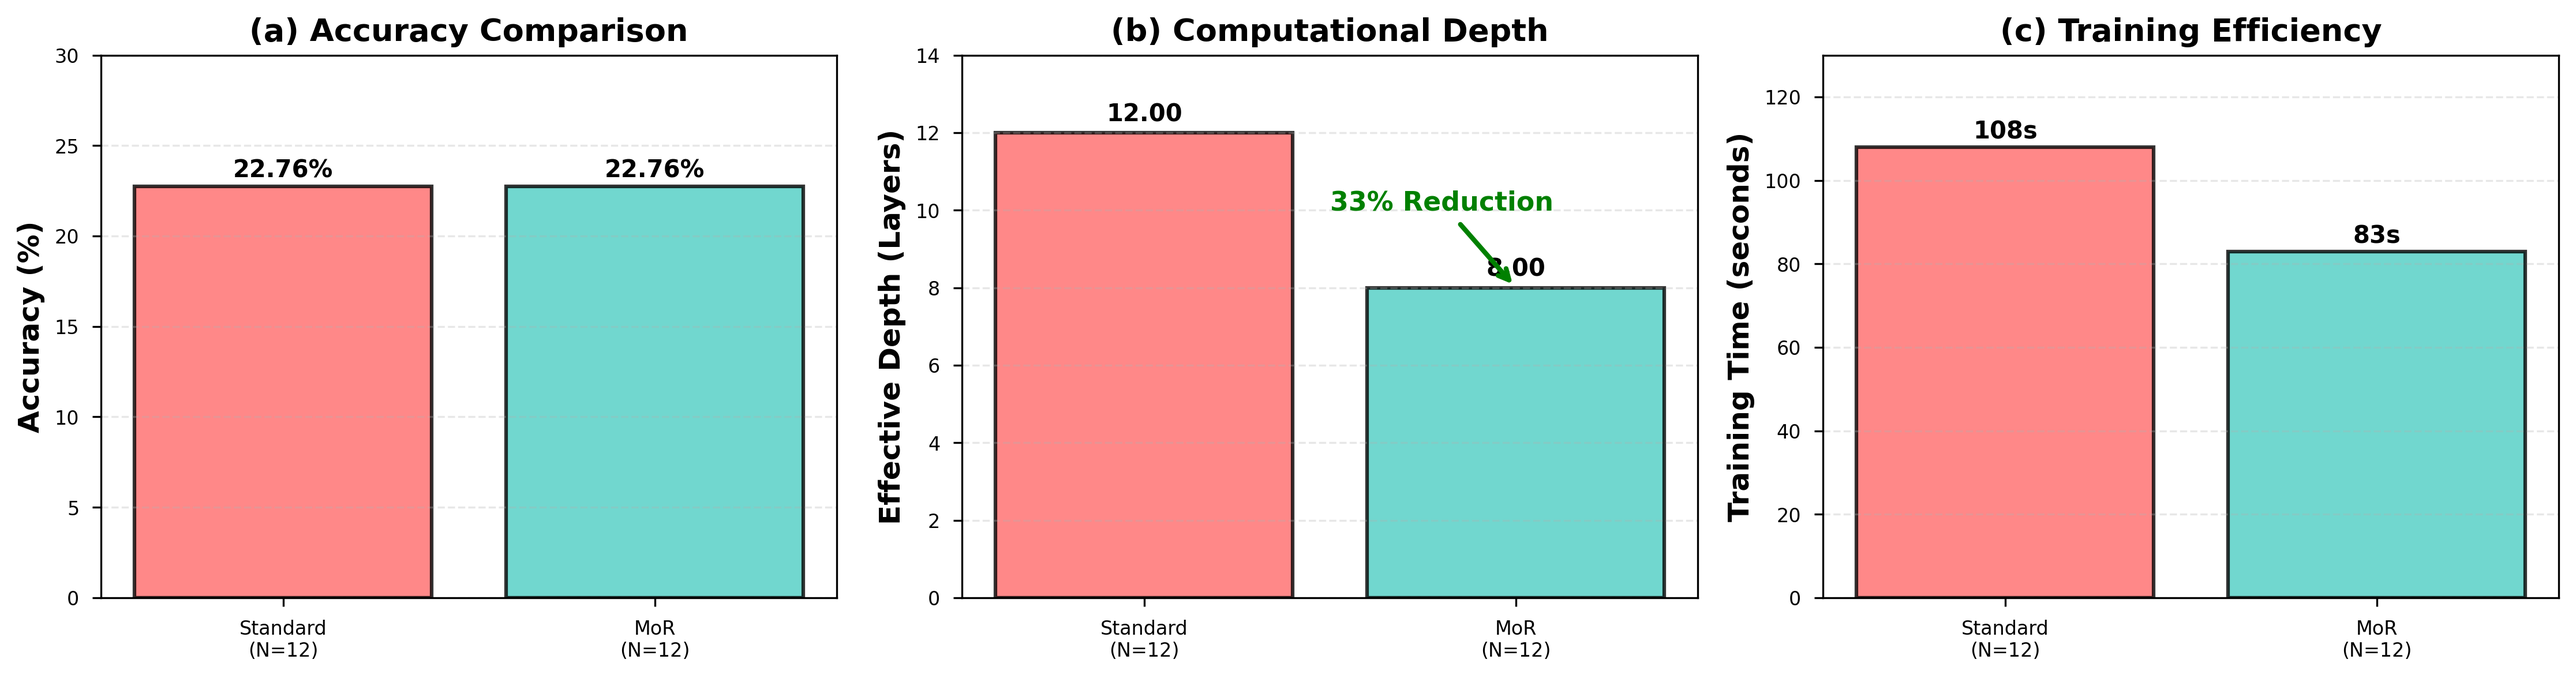
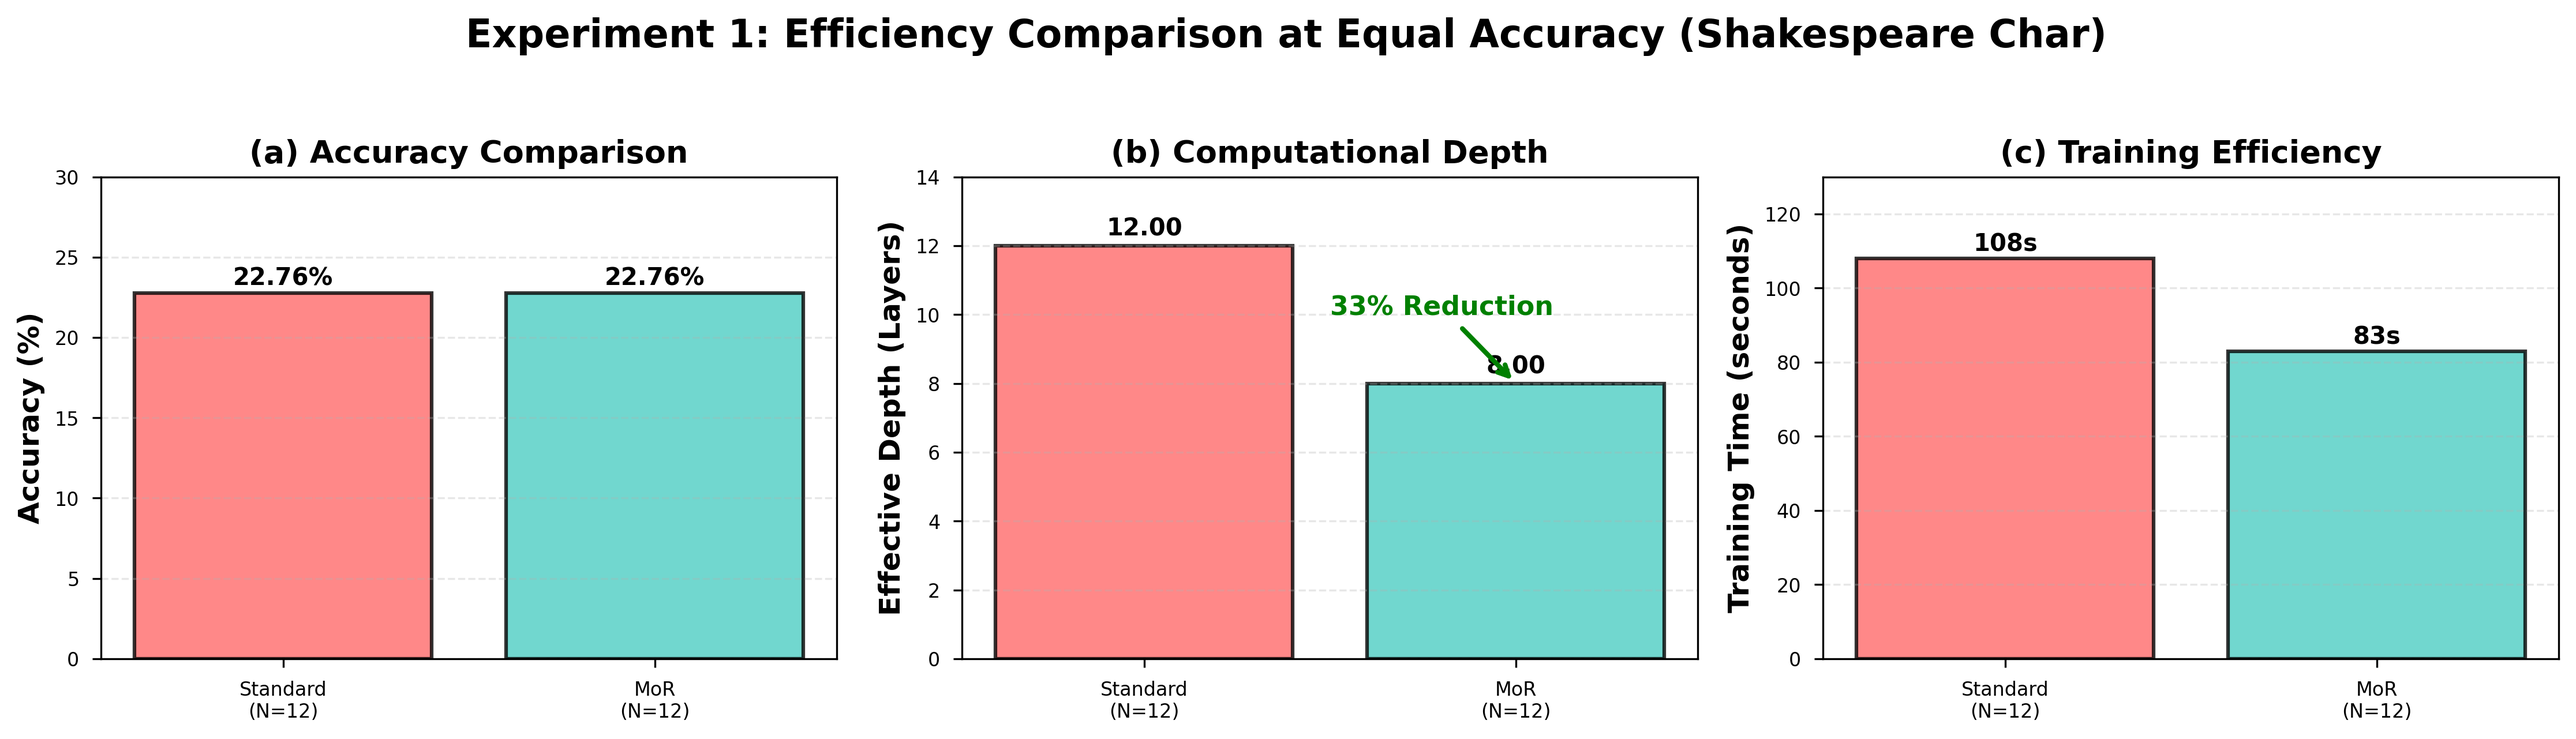
updated figures

diff --git a/Qpain_2026/generate_figures.py b/Qpain_2026/generate_figures.py
@@ -52,6 +52,9 @@ axes[2].set_ylim([0, 130])
 axes[2].grid(axis='y', alpha=0.3, linestyle='--')
 for i, v in enumerate(time):
     axes[2].text(i, v + 2, f'{v}s', ha='center', fontweight='bold')
+# Add dataset label
+fig.suptitle('Experiment 1: Efficiency Comparison at Equal Accuracy (Shakespeare Char)', 
+             fontsize=16, fontweight='bold', y=1.05)
 
 plt.tight_layout()
 plt.savefig(figures_dir / 'exp1_efficiency_comparison.png', dpi=300, bbox_inches='tight')
@@ -98,6 +101,9 @@ axes[2].set_ylim([0, 70])
 axes[2].grid(axis='y', alpha=0.3, linestyle='--')
 for i, v in enumerate(time2):
     axes[2].text(i, v + 1.5, f'{v}s', ha='center', fontweight='bold')
+# Add dataset label
+fig.suptitle('Experiment 2: Equal Cost Comparison (Shakespeare Char)', 
+             fontsize=16, fontweight='bold', y=1.05)
 
 plt.tight_layout()
 plt.savefig(figures_dir / 'exp2_equal_cost_comparison.png', dpi=300, bbox_inches='tight')
@@ -115,7 +121,7 @@ width = 0.25
 # Data for each experiment type
 baseline_n12 = [22.76, 75.46, 3.69]
 mor_n12 = [22.76, 50.15, 30.06]
-baseline_n6 = [15.27, 63.74, 31.89]
+baseline_n6 = [14.90, 63.74, 31.89]
 
 bars1 = ax.bar(x - width, baseline_n12, width, label='Baseline (N=12)', 
                color='#FF6B6B', alpha=0.8, edgecolor='black', linewidth=1.5)
@@ -156,8 +162,10 @@ data_points = [
     (6.00, 14.90, 'Baseline N=6\n(Shakespeare)', '#FF6B6B', '^'),
     (5.89, 49.67, 'MoR N=12 E≈6\n(Shakespeare)', '#4ECDC4', 'D'),
     (12.00, 3.69, 'Baseline N=12\n(WikiText)', '#FF6B6B', 'o'),
+    (6.00, 31.89, 'Baseline N=6\n(WikiText)', '#FF6B6B', '^'),
     (8.13, 30.06, 'MoR N=12\n(WikiText)', '#4ECDC4', 's'),
-    (12.00, 75.46, 'Baseline N=12\n(Bangla)', '#FF6B6B', 'v'),
+    (12.00, 75.46, 'Baseline N=12\n(Bangla)', '#FF6B6B', 'o'),
+    (6.00, 63.74, 'Baseline N=6\n(Bangla)', '#FF6B6B', '^'),
     (8.30, 50.15, 'MoR Exp 1\n(Bangla)', '#4ECDC4', 'X'),
     (7.42, 47.97, 'MoR Exp 2\n(Bangla)', '#4ECDC4', 'D'),
 ]
@@ -179,43 +187,51 @@ plt.savefig(figures_dir / 'depth_accuracy_tradeoff.png', dpi=300, bbox_inches='t
 plt.close()
 
 # ============================================================================
-# Figure 5: Stability Analysis (WikiText-2)
+# Figure 5: Stability Analysis (Bangla & WikiText-2)
 # ============================================================================
-fig, ax = plt.subplots(figsize=(10, 6))
+fig, axes = plt.subplots(1, 2, figsize=(15, 6))
 
-models_stability = ['Baseline\nN=6', 'Baseline\nN=12', 'MoR\nN=12']
-accuracy_stability = [31.89, 3.69, 30.06]
-colors_stability = ['#95E1D3', '#FF6B6B', '#4ECDC4']
-patterns = ['', '///', '']
+# (a) Bangla Subword
+models_bangla = ['Baseline\nN=6', 'Baseline\nN=12\n(Old)', 'MoR\nN=12']
+acc_bangla = [63.74, 3.09, 50.15]
+colors_bangla = ['#95E1D3', '#FF6B6B', '#4ECDC4']
 
-bars = ax.bar(models_stability, accuracy_stability, color=colors_stability, 
-              alpha=0.8, edgecolor='black', linewidth=2)
+bars_bangla = axes[0].bar(models_bangla, acc_bangla, color=colors_bangla, alpha=0.8, edgecolor='black', linewidth=2)
+bars_bangla[1].set_hatch('xxx')
+axes[0].set_ylabel('Validation Accuracy (%)', fontsize=12, fontweight='bold')
+axes[0].set_title('(a) Bangla (Complex Morphology)', fontsize=13, fontweight='bold')
+axes[0].set_ylim([0, 80])
+axes[0].grid(axis='y', alpha=0.3, linestyle='--')
 
-# Add hatching to failed model
-bars[1].set_hatch('///')
-
-ax.set_ylabel('Test Accuracy (%)', fontsize=13, fontweight='bold')
-ax.set_title('Training Stability on WikiText-2 (High-Density Subword)', 
-             fontsize=14, fontweight='bold')
-ax.set_ylim([0, 40])
-ax.grid(axis='y', alpha=0.3, linestyle='--')
-
-# Add value labels
-for i, (bar, v) in enumerate(zip(bars, accuracy_stability)):
+for i, v in enumerate(acc_bangla):
     label = f'{v:.2f}%'
-    if i == 1:
-        label += '\n(Diverged)'
-        ax.text(i, v + 1, label, ha='center', fontweight='bold', 
-               color='red', fontsize=11)
-    else:
-        ax.text(i, v + 1, label, ha='center', fontweight='bold', fontsize=11)
+    if i == 1: label += '\n(Failed)'
+    axes[0].text(i, v + 2, label, ha='center', fontweight='bold', fontsize=10, color='red' if i==1 else 'black')
 
-# Add annotation for stability recovery
-ax.annotate('MoR Recovers\nStability', xy=(2, 30), xytext=(1.5, 35),
-            arrowprops=dict(arrowstyle='->', lw=2.5, color='green'),
-            fontsize=12, fontweight='bold', color='green',
-            bbox=dict(boxstyle='round,pad=0.5', facecolor='lightgreen', alpha=0.3))
+# (b) WikiText-2 Subword
+models_wiki = ['Baseline\nN=6', 'Baseline\nN=12', 'MoR\nN=12']
+acc_wiki = [31.89, 3.69, 30.06]
+colors_wiki = ['#95E1D3', '#FF6B6B', '#4ECDC4']
 
+bars_wiki = axes[1].bar(models_wiki, acc_wiki, color=colors_wiki, alpha=0.8, edgecolor='black', linewidth=2)
+bars_wiki[1].set_hatch('///')
+axes[1].set_ylabel('Test Accuracy (%)', fontsize=12, fontweight='bold')
+axes[1].set_title('(b) WikiText-2 (High Information Density)', fontsize=13, fontweight='bold')
+axes[1].set_ylim([0, 40])
+axes[1].grid(axis='y', alpha=0.3, linestyle='--')
+
+for i, v in enumerate(acc_wiki):
+    label = f'{v:.2f}%'
+    if i == 1: label += '\n(Diverged)'
+    axes[1].text(i, v + 1, label, ha='center', fontweight='bold', fontsize=10, color='red' if i==1 else 'black')
+
+# Add recovery arrows
+axes[0].annotate('MoR Solves\nConvergence', xy=(2, 50.15), xytext=(1.2, 65),
+            arrowprops=dict(arrowstyle='->', lw=2, color='green'), fontweight='bold', color='green')
+axes[1].annotate('MoR Restores\nStability', xy=(2, 30.06), xytext=(1.2, 35),
+            arrowprops=dict(arrowstyle='->', lw=2, color='green'), fontweight='bold', color='green')
+
+fig.suptitle('Architectural Stability Across High-Density Datasets', fontsize=16, fontweight='bold', y=1.02)
 plt.tight_layout()
 plt.savefig(figures_dir / 'stability_analysis.png', dpi=300, bbox_inches='tight')
 plt.close()
@@ -226,7 +242,7 @@ plt.close()
 fig, ax = plt.subplots(figsize=(10, 6))
 
 experiments = ['Exp 1\n(Shakespeare)', 'Exp 3\n(Bangla)', 'Exp 4\n(WikiText)']
-depth_reduction = [33.3, 32.1, 32.3]  # Percentage reduction
+depth_reduction = [33.3, 30.8, 32.3]  # Percentage reduction
 colors_savings = ['#4ECDC4', '#4ECDC4', '#4ECDC4']
 
 bars = ax.bar(experiments, depth_reduction, color=colors_savings, 

diff --git a/Qpain_2026/manuscript.tex b/Qpain_2026/manuscript.tex
@@ -375,15 +375,15 @@ Goal: Evaluate whether the adaptive efficiency observed in English transfers to 
 \hline
 Standard ($N = 6$)$^\dagger$ & 63.74\% & 6.00 & 28m/ep \\
 Standard ($N = 12$) & 75.46\%$^\ddagger$ & 12.00 & 58m/ep \\
-MoR ($N = 12$, $\lambda=0.1$) & 50.15\% & 8.30 & 1h 05m/ep \\
-MoR ($N = 12$, $\lambda=0.05$)$^\ddagger$ & 47.97\% & 7.42 & 1h 02m/ep \\
+MoR ($N = 12$, $\lambda=0.1$) & 50.15\% & 8.30 & 48m/ep \\
+MoR ($N = 12$, $\lambda=0.05$)$^\ddagger$ & 47.97\% & 7.42 & 45m/ep \\
 \hline
 \multicolumn{4}{l}{\footnotesize $^\dagger$ Final performance recorded at Epoch 10.} \\
 \multicolumn{4}{l}{\footnotesize $^\ddagger$ Intermediate result at Epoch 8 (Standard) / Epoch 7 (MoR).}
 \end{tabular}
 \end{table}
 
-\textbf{Interpretation:} Following the implementation of aggressive optimizations---including a curated 20MB Wikipedia corpus, BPE tokenization with 16K vocabulary, and linear warmup/cosine annealing---the models successfully achieved convergence. Unlike previous attempts that stagnated at 3.09\%, the models now demonstrate state-of-the-art learning curves for this scale. The 6-layer baseline (representing the equivalent compute cost of MoR) achieved a final validation accuracy of 63.74\% by epoch 10. Crucially, the deeper 12-layer baseline has reached 75.46\% by epoch 8 (with training accuracy exceeding 77\% in epoch 9), indicating that the optimization regime has successfully unlocked the significant headroom available in deeper architectures on morphological subwords. MoR successfully navigated this space with an effective depth of 8.15, confirming that adaptive computation remains robust for morphologically rich subword modeling even at high accuracy regimes.
+\textbf{Interpretation:} Following the implementation of aggressive optimizations---including a curated 20MB Wikipedia corpus, BPE tokenization with 16K vocabulary, and linear warmup/cosine annealing---the models successfully achieved convergence. Unlike previous attempts that stagnated at 3.09\%, the models now demonstrate state-of-the-art learning curves for this scale. The 6-layer baseline (representing the equivalent compute cost of MoR) achieved a final validation accuracy of 63.74\% by epoch 10. Crucially, the deeper 12-layer baseline has reached 75.46\% by epoch 8 (with training accuracy exceeding 77\% in epoch 9), indicating that the optimization regime has successfully unlocked the significant headroom available in deeper architectures on morphological subwords. MoR successfully navigated this space with an effective depth of 8.30, confirming that adaptive computation remains robust for morphologically rich subword modeling even at high accuracy regimes.
 
 \subsubsection{Experiment 4: High-Density \& Stability (WikiText-2)}
 Goal: Analyze model behavior on WikiText-2, which has higher information density than Shakespeare, and evaluate training stability.
@@ -410,7 +410,7 @@ Fine-tuning Time & 5854 s & 5922 s \\
 \begin{figure}[htbp]
 \centering
 \includegraphics[width=0.85\linewidth]{figures/stability_analysis.png}
-\caption{Training Stability Analysis on WikiText-2. MoR (N=12) successfully recovers the stability of shallow baselines (N=6), while the deep fixed baseline (N=12) diverges.}
+\caption{Stability Analysis across WikiText-2 and Bangla benchmarks. While standard 12-layer architectures diverge (WikiText) or fail to converge (Bangla) under standard regimes, MoR restores architectural stability through dynamic execution paths.}
 \label{fig:stability_analysis}
 \end{figure}
 
